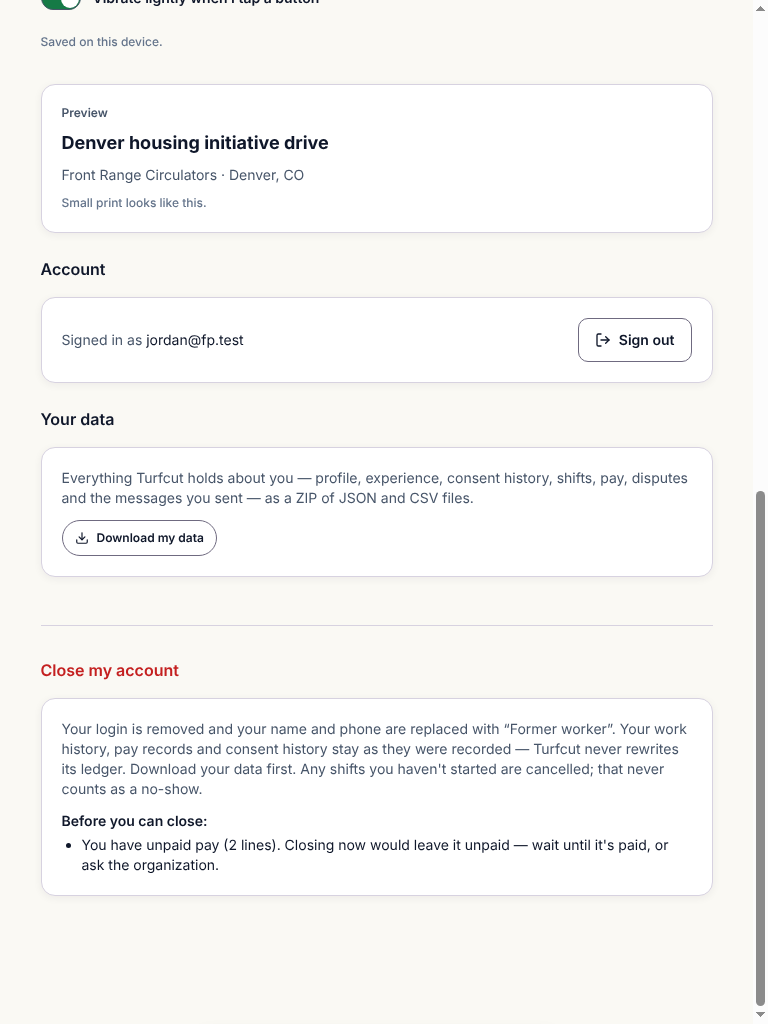
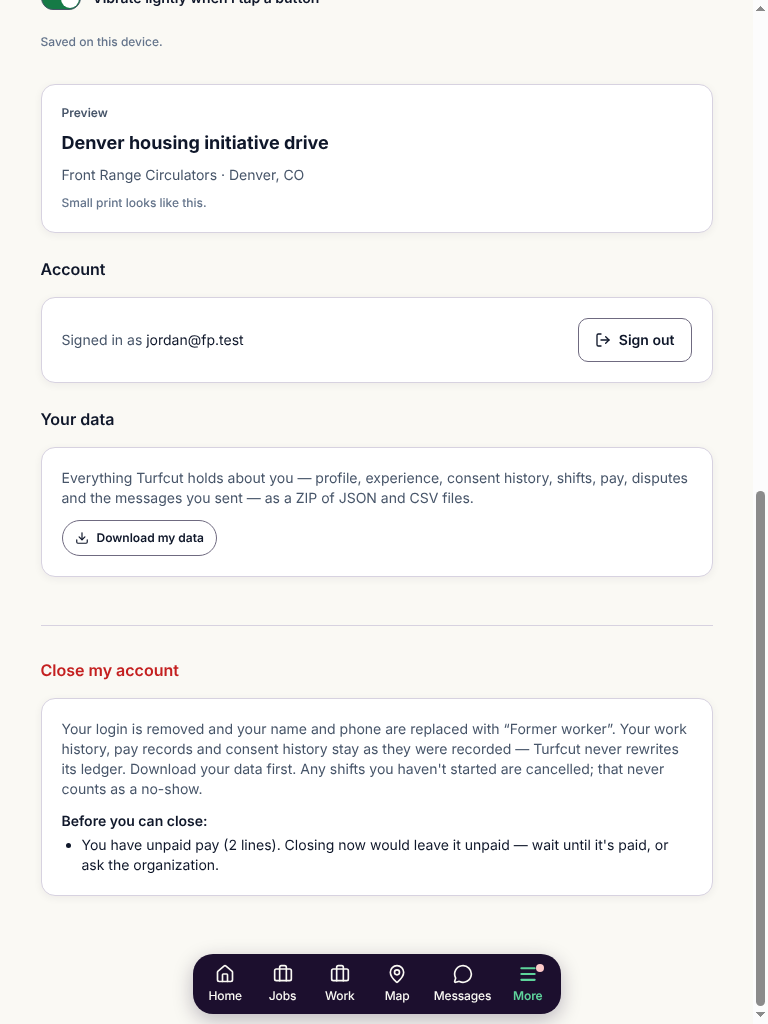
Evidence: dock clearance screenshots show the dock
Re-check finding: the dock tucks away on scroll, so the clearance
screenshots showed the page end without it. The clearance run now uses
reduced motion, which keeps the dock in place; recaptured at 85f9fc1.
README: 41 rendered pages with the dock (the 404 excluded).

Claude-Session: https://claude.ai/code/session_01M5jonG7B326Ty4GJKyZ5gK

Changed region(s): [[0.25, 0.9062, 0.75, 1.0]]

diff --git a/docs/design/hero-board/evidence/tablet-pass-2026-11-08/README.md b/docs/design/hero-board/evidence/tablet-pass-2026-11-08/README.md
@@ -19,12 +19,12 @@ This is Chromium with touch enabled, at DPR 1. It is not a real iPad, Safari, th
 
 - **`baseline/`:** 46 routes × 2 sizes × 2 themes = 184 measured states on master `ea9f5d8`, with a light screenshot at each size (92) and `manifest.json`. That's 44 rendered routes. The worker's shift page returns 404, and the Message reports row was audited as staff by mistake: it redirected to the worker Messages page, so those four rows don't show Message reports (see `extra/`). `w-header-1024.png`, `-1200`, `-1280` and `-1440` show the worker header across the band.
 - **`extra/`:** Message reports audited correctly as the organization owner, at `fa7c346` (no app change to that route since master): 4 states, no overflow, no errors, dock at 768 and rail at 1024.
-- **`clearance/`:** the dock clearance of every route at 768, at `fa7c346`, with a screenshot of each page scrolled to its end, and `clearance.json`.
+- **`clearance/`:** the dock clearance of every route at 768, at `85f9fc1` (no app change since `d00546c`), with `clearance.json` and a screenshot of each page scrolled to its end. The run uses reduced motion: the dock tucks away while you scroll, so that's the only way to keep it on screen in the screenshots. The measurement takes the dock in its shown position, the worst case.
 - **`after/`:** the Field map and its review queue rerun through the same audit at `d00546c`, the commit with the fix. `field-measurements.json` records the filter's widths at 390, 1024 and 1440, at the default and largest text size, with the strip cropped as screenshots.
 
 ## Results
 
-**No route overflows sideways at either size, in either theme.** Nothing sits past the right edge. **Nothing sits behind the dock:** on all 41 pages that show it, the last visible content ends at least 58px above it (`clearance/clearance.json`). The dock also hides while you scroll down. The organization rail appears at 1024 and the dock at 768, as designed, with two exceptions that aren't faults. On staff People at 768 the search box has `autoFocus`, and a focused input hides the dock by design. On the worker's profile at 1024 the audit reported a rail, a false positive: its check matched the profile page's own `aside nav`. The only console errors are on the worker's shift page, which returns 404 because the fixture shift isn't Jordan's; that's a fixture limit, not a layout fault.
+**No route overflows sideways at either size, in either theme.** Nothing sits past the right edge. **Nothing sits behind the dock:** on all 41 rendered pages that show it (the worker shift 404 excluded), the last visible content ends at least 58px above it (`clearance/clearance.json`). The dock also hides while you scroll down. The organization rail appears at 1024 and the dock at 768, as designed, with two exceptions that aren't faults. On staff People at 768 the search box has `autoFocus`, and a focused input hides the dock by design. On the worker's profile at 1024 the audit reported a rail, a false positive: its check matched the profile page's own `aside nav`. The only console errors are on the worker's shift page, which returns 404 because the fixture shift isn't Jordan's; that's a fixture limit, not a layout fault.
 
 ### Fixed in this PR
 
